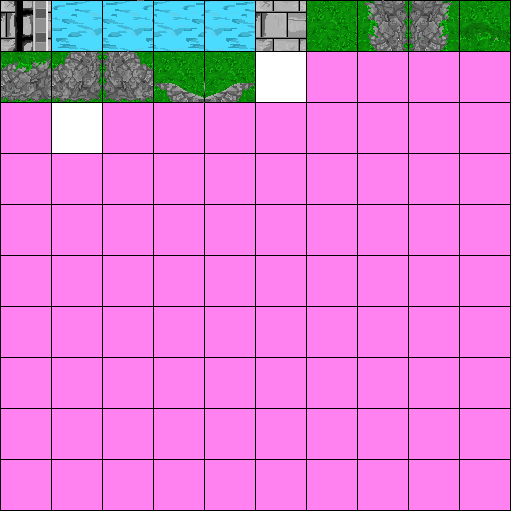
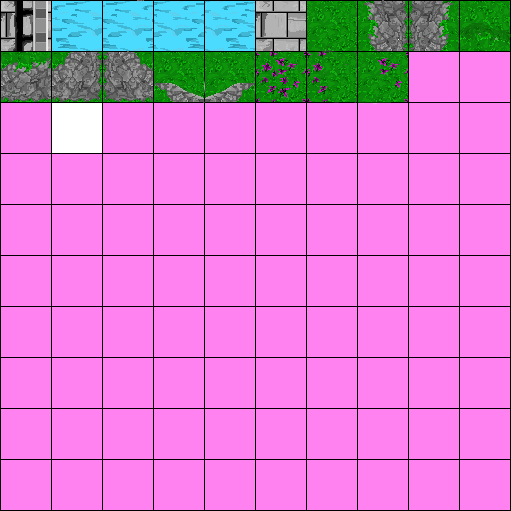
a few graphical and script changes mostly graphical

Changed region(s): [[0.499, 0.0881, 0.8219, 0.2055]]

diff --git a/Marchgame/org.tuxedofish.marchgame/logic/entities/Bullet.java b/Marchgame/org.tuxedofish.marchgame/logic/entities/Bullet.java
@@ -32,17 +32,21 @@ public class Bullet {
 		this.lastage = age;
 	}
 	public boolean contains(Vector2f pos, float width, float height, DisplaySetup d) {
-		Vector2f p2 = new Vector2f(pos.x + width, pos.y);
-		Vector2f p3 = new Vector2f(pos.x + width, pos.y - height);
-		Vector2f p4 = new Vector2f(pos.x, pos.y - height);
 		float yconv = Display.getWidth()/Display.getHeight();
-		float d1 = (float)Math.sqrt(Math.pow(pos.x - (this.pos.x+(radius/2)), 2) + Math.pow(pos.y - (this.pos.y-(radius*yconv/2)), 2));
-		float d2 = (float)Math.sqrt(Math.pow(p2.x - (this.pos.x+(radius/2)), 2) + Math.pow(p2.y - (this.pos.y-(radius*yconv/2)), 2));
-		float d3 = (float)Math.sqrt(Math.pow(p3.x - (this.pos.x+(radius/2)), 2) + Math.pow(p3.y - (this.pos.y-(radius*yconv/2)), 2));
-		float d4 = (float)Math.sqrt(Math.pow(p4.x - (this.pos.x+(radius/2)), 2) + Math.pow(p4.y - (this.pos.y-(radius*yconv/2)), 2));
 		
-		if(d1<radius || d2<radius || d3<radius || d4<radius) {
-			return true;
+		if(Math.sqrt(Math.pow(pos.x+(width/2) - (this.pos.x+(radius/2)), 2) + Math.pow(pos.y-(height/2) - (this.pos.y-(radius*yconv/2)), 2))<radius) {
+			Vector2f p2 = new Vector2f(pos.x + width, pos.y);
+			Vector2f p3 = new Vector2f(pos.x + width, pos.y - height);
+			Vector2f p4 = new Vector2f(pos.x, pos.y - height);
+			
+			float d1 = (float)Math.sqrt(Math.pow(pos.x - (this.pos.x+(radius/2)), 2) + Math.pow(pos.y - (this.pos.y-(radius*yconv/2)), 2));
+			float d2 = (float)Math.sqrt(Math.pow(p2.x - (this.pos.x+(radius/2)), 2) + Math.pow(p2.y - (this.pos.y-(radius*yconv/2)), 2));
+			float d3 = (float)Math.sqrt(Math.pow(p3.x - (this.pos.x+(radius/2)), 2) + Math.pow(p3.y - (this.pos.y-(radius*yconv/2)), 2));
+			float d4 = (float)Math.sqrt(Math.pow(p4.x - (this.pos.x+(radius/2)), 2) + Math.pow(p4.y - (this.pos.y-(radius*yconv/2)), 2));
+			
+			if(d1<radius || d2<radius || d3<radius || d4<radius) {
+				return true;
+			}
 		}
 		if(this.pos.x >= pos.x && this.pos.x <= pos.x + width 
 				&& this.pos.y <= pos.y && this.pos.y >= pos.y - height) {

diff --git a/Marchgame/org.tuxedofish.marchgame/logic/entities/Enemy.java b/Marchgame/org.tuxedofish.marchgame/logic/entities/Enemy.java
@@ -91,7 +91,7 @@ public class Enemy extends Sprite{
 		this.bullettexid = bullettexid;
 		this.movementtype = movementtype;
 		this.animationstyle = animationtype;
-		if(movementtype.contains("swirl")) {
+		if(movementtype.contains("swirl") || movementtype.contains("toplayer")) {
 			setScroll(false);
 			setPos((float)(-0.6f + (Math.random()*1.2f)), pos.y/(Display.getHeight()/2)-1.0f);
 		}
@@ -184,6 +184,17 @@ public class Enemy extends Sprite{
 			} else {
 				texturestage += 1;
 			}
+		}
+		if(animationstyle == 4) {
+			float direction = (float) Math.atan2(playersprite.getPos().y-getPos().y, playersprite.getPos().x-getPos().x);
+			int texture = 6-(int)(direction/(Math.PI/4));
+			if(texture < 0) {
+				texture += 8;
+			}
+			if(texture > 7) {
+				texture -= 8;
+			}
+			this.changeTexture(texture);
 		}
 	}
 	public void setAnimationStyle(int style) {
@@ -283,6 +294,13 @@ public class Enemy extends Sprite{
 		if(movementtype.contains("swirl")) {
 			swirlAround();
 		}
+		if(movementtype.contains("toplayer")) {
+			if(getPos().y > playersprite.getPos().y) {
+				gotoplayer();
+			} else {
+				changePos(0.0f, -0.01f);
+			}
+		}
 		
 		if(Math.abs(d.getPos().y) + 1.0f > getPos().y) {
 			onscreen = true;
@@ -311,6 +329,11 @@ public class Enemy extends Sprite{
 			}
 		}
 		bullets.render(sh, d, util);
+	}
+	private void gotoplayer() {
+		direction=(float) Math.atan2(playersprite.getPos().y - this.getPos().y, 
+				playersprite.getPos().x - this.getPos().x);
+		changePos((float)Math.cos(direction)/200.0f, (float)Math.sin(direction)/200.0f);
 	}
 	public void finish(IntBuffer vboids, IntBuffer vaoids, int[] index) {
 		this.threadindex = index[0];

diff --git a/Marchgame/org.tuxedofish.marchgame/terrain/Parser.java b/Marchgame/org.tuxedofish.marchgame/terrain/Parser.java
@@ -32,6 +32,18 @@ public class Parser {
 				if(new Color(lvl.getRGB(j, i)).equals(Color.green)) {
 					blocks.add(new Block(pos.x + ((float)(j*b.getWidth())/Display.getWidth()), pos.y + ((float)(i*b.getHeight())/Display.getHeight()), 6, 50, 50));
 				}
+				//grass-pinkflower
+				if(new Color(lvl.getRGB(j, i)).equals(new Color(255, 0, 255))) {
+					blocks.add(new Block(pos.x + ((float)(j*b.getWidth())/Display.getWidth()), pos.y + ((float)(i*b.getHeight())/Display.getHeight()), 15, 50, 50));
+				}
+				//grass-pinkflower-left
+				if(new Color(lvl.getRGB(j, i)).equals(new Color(255, 80, 255))) {
+					blocks.add(new Block(pos.x + ((float)(j*b.getWidth())/Display.getWidth()), pos.y + ((float)(i*b.getHeight())/Display.getHeight()), 16, 50, 50));
+				}
+				//grass-pinkflower-right
+				if(new Color(lvl.getRGB(j, i)).equals(new Color(255, 40, 255))) {
+					blocks.add(new Block(pos.x + ((float)(j*b.getWidth())/Display.getWidth()), pos.y + ((float)(i*b.getHeight())/Display.getHeight()), 17, 50, 50));
+				}
 				//path
 				if(new Color(lvl.getRGB(j, i)).equals(new Color(255, 120, 0))) {
 					blocks.add(new Block(pos.x + ((float)(j*b.getWidth())/Display.getWidth()), pos.y + ((float)(i*b.getHeight())/Display.getHeight()), 0, 50, 50));

diff --git a/Marchgame/org.tuxedofish.marchgame/object/Sprite.java b/Marchgame/org.tuxedofish.marchgame/object/Sprite.java
@@ -249,15 +249,12 @@ public class Sprite{
 		modelmatrixfb.flip();
 
 		util.setup(datafb, vboID, vaoID, sh, textureid, 2, indices, modelmatrixfb, brightness);
-//		for(int i=0; i<datafb.capacity(); i++) {
-//			System.out.print(datafb.get(i) + ", ");
-//		}
 		util.drawRectangle();
 	}
 	public void rotate(float angle) {
-		modelmatrix.translate(new Vector2f(pos.x, pos.y));
+		modelmatrix.translate(new Vector2f(-pos.x-((float)getWidth()/Display.getWidth()/2), -pos.y-((float)getHeight()/Display.getHeight()/2)));
 		modelmatrix.rotate(angle, new Vector3f(0.0f, 0.0f, 1.0f));
-		modelmatrix.translate(new Vector2f(-pos.x, -pos.y));
+		modelmatrix.translate(new Vector2f(pos.x+((float)getWidth()/Display.getWidth()/2), pos.y+((float)getHeight()/Display.getHeight()/2)));
 	}
 	public Vector2f getPos() {
 		return pos;
@@ -273,5 +270,10 @@ public class Sprite{
 	}
 	public int gettexid() {
 		return textureid;
+	}
+	public void rotateAround(Vector2f pos2, float angle) {
+		modelmatrix.translate(new Vector2f(pos2.x-pos.x, pos2.y-pos.y));
+		modelmatrix.rotate(angle, new Vector3f(pos.x, pos.y, 1.0f));
+		modelmatrix.translate(new Vector2f(-(pos2.x-pos.x), -(pos2.y-pos.y)));
 	}
 }

diff --git a/Marchgame/org.tuxedofish.marchgame/start/Controller.java b/Marchgame/org.tuxedofish.marchgame/start/Controller.java
@@ -177,6 +177,8 @@ public class Controller {
 			sph.addTexture(images.getImage("Enemy1.png"), "Enemy1.png", 49);
 			sph.addTexture(images.getImage("Enemy2.png"), "Enemy2.png", 49);
 			sph.addTexture(images.getImage("Enemy3.png"), "Enemy3.png", 49);
+			sph.addTexture(images.getImage("cyborg.png"), "cyborg.png", 32);
+			sph.addTexture(images.getImage("missile.png"), "missile.png", 32);
 			sph.addTexture(images.getImage("Tank.png"), "Tank.png", 49);
 			sph.addTexture(images.getImage("SegaExplosions.png"), "explosion", 100);
 			sph.addTexture(images.getImage("bullets2.png"), "bullets", 19);

diff --git a/Marchgame/org.tuxedofish.marchgame/logic/entities/Boss.java b/Marchgame/org.tuxedofish.marchgame/logic/entities/Boss.java
@@ -114,6 +114,11 @@ public class Boss {
 					(float)me.get(i).getHeight()/Display.getHeight());
 		}
 	}
+	public void rotate()  {
+		for(int i=0; i<me.size(); i++) {
+			me.get(i).rotate(0.01f);
+		}
+	}
 	public void addSprite(Sprite s, int lowesttexid, int highesttexid, int health, int pattern, boolean hittable, 
 			int threadID, int[] shootthreadids, int[] shootlengths) {
 		me.add(s);
@@ -183,6 +188,7 @@ public class Boss {
 	}
 	public void render(ShaderHandler sh, DisplaySetup d, DataUtils util) {
 		update(d);
+	//	rotate();
 		if(anstage == 5) {
 			animate();
 			anstage = 0;

diff --git a/Marchgame/org.tuxedofish.marchgame/start/gui/GuiBar.java b/Marchgame/org.tuxedofish.marchgame/start/gui/GuiBar.java
@@ -76,8 +76,10 @@ public class GuiBar implements GuiElement{
 			g.drawImage(emptybar, 0, 0, null);
 			
 			if(percent < 100) {
-				g.drawImage(bar.getSubimage(0, 0, (int)(((float)bar.getWidth()/100.0f)*(float)percent), 
+				if(percent >= 2) {
+					g.drawImage(bar.getSubimage(0, 0, (int)(((float)bar.getWidth()/100.0f)*(float)percent), 
 						bar.getHeight()), 1, 1, null);
+				}
 			} else {
 				g.drawImage(bar.getSubimage(0, 0, (int)(((float)bar.getWidth()/100.0f)*(float)100), 
 						bar.getHeight()), 1, 1, null);
